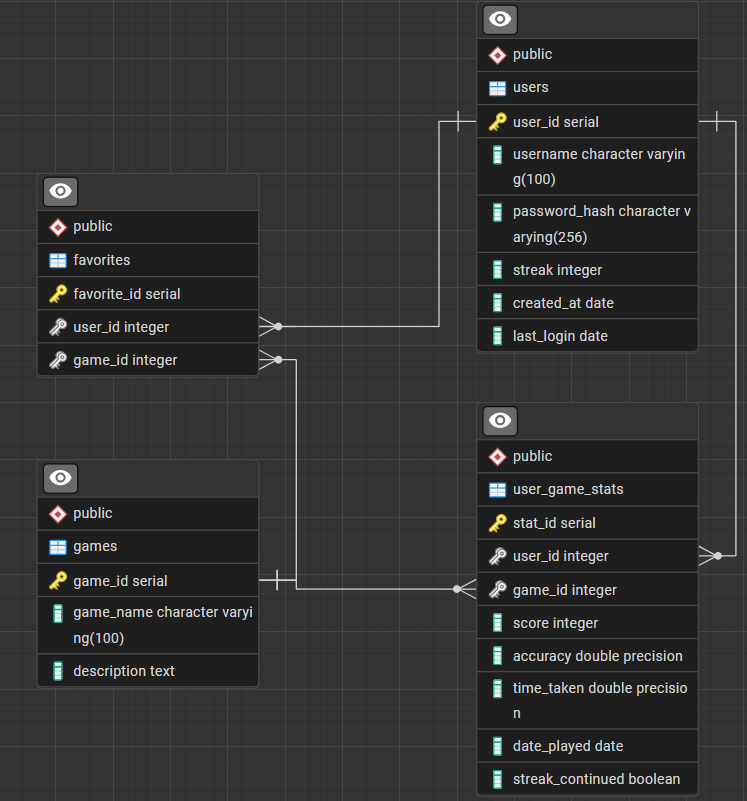
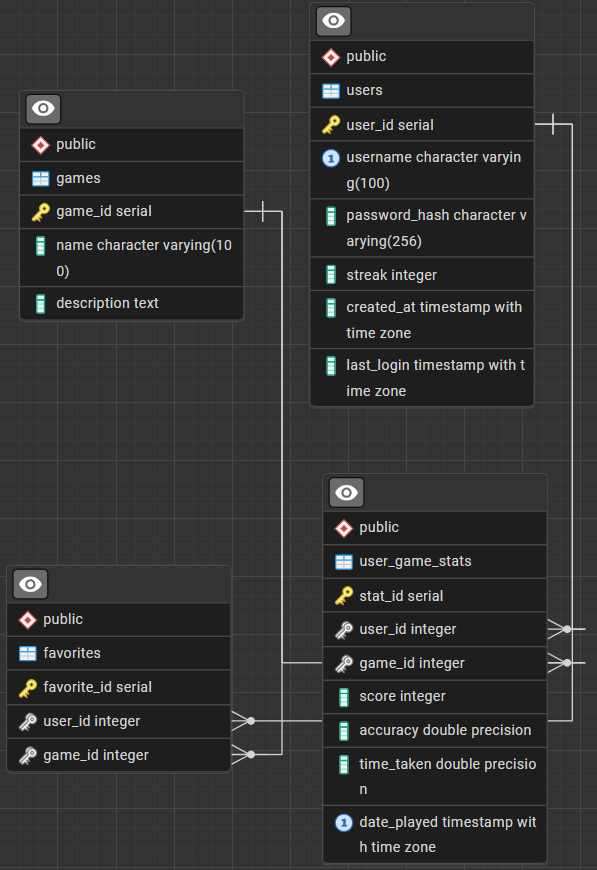
Update tables, create query, ERD, and list of games

Changed region(s): [[0.0, 0.0, 0.995, 0.9988], [0.8744, 0.0624, 0.9347, 0.0936], [0.4221, 0.2185, 0.4523, 0.2497]]

diff --git a/planning/entity_relationship_diagram.md b/planning/entity_relationship_diagram.md
@@ -6,23 +6,23 @@
 
 ### `users` Table
 
-| Column        | Type     | Description             |
-| ------------- | -------- | ----------------------- |
-| user_id       | INT (PK) | Unique user identifier  |
-| username      | VARCHAR  | Login name              |
-| password_hash | VARCHAR  | Hashed password         |
-| streak        | INT      | Consecutive active days |
-| created_at    | DATE     | Date of registration    |
-| last_login    | DATE     | Last login time         |
+| Column        | Type            | Description                 |
+| ------------- | --------        | -----------------------     |
+| user_id       | INT (PK)        | Unique user identifier      |
+| username      | VARCHAR         | Login name                  |
+| password_hash | VARCHAR         | Hashed password             |
+| streak        | INT             | Consecutive active days     |
+| created_at    | TIMESTAMPTZ     | Datetime of registration    |
+| last_login    | TIMESTAMPTZ     | Last login datetime         |
 
 ```sql
 CREATE TABLE users (
     user_id SERIAL PRIMARY KEY,
-    username VARCHAR(100) NOT NULL,
+    username VARCHAR(100) UNIQUE NOT NULL,
     password_hash VARCHAR(256) NOT NULL,
     streak INT NOT NULL,
-    created_at DATE NOT NULL,
-    last_login DATE NOT NULL
+    created_at TIMESTAMPTZ NOT NULL,
+    last_login TIMESTAMPTZ NOT NULL
 );
 ```
 
@@ -33,13 +33,13 @@ CREATE TABLE users (
 | Column      | Type     | Description            |
 | ----------- | -------- | ---------------------- |
 | game_id     | INT (PK) | Unique game identifier |
-| game_name   | VARCHAR  | e.g., "Memory Tiles"   |
+| name        | VARCHAR  | e.g., "Memory Tiles"   |
 | description | TEXT     | Game description       |
 
 ```sql
 CREATE TABLE games (
     game_id SERIAL PRIMARY KEY,
-    game_name VARCHAR(100) NOT NULL,
+    name VARCHAR(100) NOT NULL,
     description TEXT NOT NULL
 );
 ```
@@ -48,16 +48,15 @@ CREATE TABLE games (
 
 ### `user_game_stats` Table
 
-| Column           | Type                     | Description               |
-| ---------------- | ------------------------ | ------------------------- |
-| stat_id          | INT (PK)                 | Unique stat record        |
-| user_id          | INT (FK → users.user_id) | Who played                |
-| game_id          | INT (FK → games.game_id) | Which game                |
-| score            | INT                      | Game score                |
-| accuracy         | FLOAT                    | Correct answer percentage |
-| time_taken       | FLOAT                    | Completion time           |
-| date_played      | DATE                     | Date of play              |
-| streak_continued | BOOLEAN                  | Used for streak logic     |
+| Column           | Type                            | Description                   |
+| ---------------- | ------------------------        | -------------------------     |
+| stat_id          | INT (PK)                        | Unique stat record            |
+| user_id          | INT (FK → users.user_id)        | Who played                    |
+| game_id          | INT (FK → games.game_id)        | Which game                    |
+| score            | INT                             | Game score                    |
+| accuracy         | FLOAT                           | Correct answer percentage     |
+| time_taken       | FLOAT                           | Completion time               |
+| date_played      | TIMESTAMPTZ                     | Datetime of play              |
 
 ```sql
 CREATE TABLE user_game_stats (
@@ -67,11 +66,10 @@ CREATE TABLE user_game_stats (
 	score INT NOT NULL,
 	accuracy FLOAT NOT NULL,
 	time_taken FLOAT NOT NULL,
-	date_played DATE NOT NULL,
-	streak_continued BOOLEAN NOT NULL,
+	date_played TIMESTAMPTZ NOT NULL,
 	FOREIGN KEY (user_id) REFERENCES users(user_id),
 	FOREIGN KEY (game_id) REFERENCES games(game_id),
-	CONSTRAINT uq_user_game_stats UNIQUE (user_id, game_id)
+	UNIQUE (user_id, game_id, date_played)
 );
 ```
 
@@ -92,6 +90,6 @@ CREATE TABLE favorites (
 	game_id INT NOT NULL,
 	FOREIGN KEY (user_id) REFERENCES users(user_id),
 	FOREIGN KEY (game_id) REFERENCES games(game_id),
-	CONSTRAINT uq_favorites UNIQUE (user_id, game_id)
+	UNIQUE (user_id, game_id)
 );
 ```

diff --git a/README.md b/README.md
@@ -58,10 +58,7 @@ By combining psychology-inspired mini games with visual analytics, our goal is t
 | -------------------------- | ---------------------------------------------------- | ------------------ |
 | **Memory Tiles**           | Flip and match pairs.                                | Short-term memory  |
 | **License Plate Recall**   | Show a random plate for 3 seconds, user retypes it.  | Visual recall      |
-| **Keyphrase Memorization** | Display random phrase, hide, user types from memory. | Working memory     |
-| **Name/Face Matching**     | Match random names with generated faces.             | Associative memory |
 | **Quick Math**             | Timed +, −, ×, ÷ problems.                           | Speed & accuracy   |
-| **Color Stroop Test**      | Choose color of the word instead of reading it.      | Cognitive control  |
 
 ---
 
